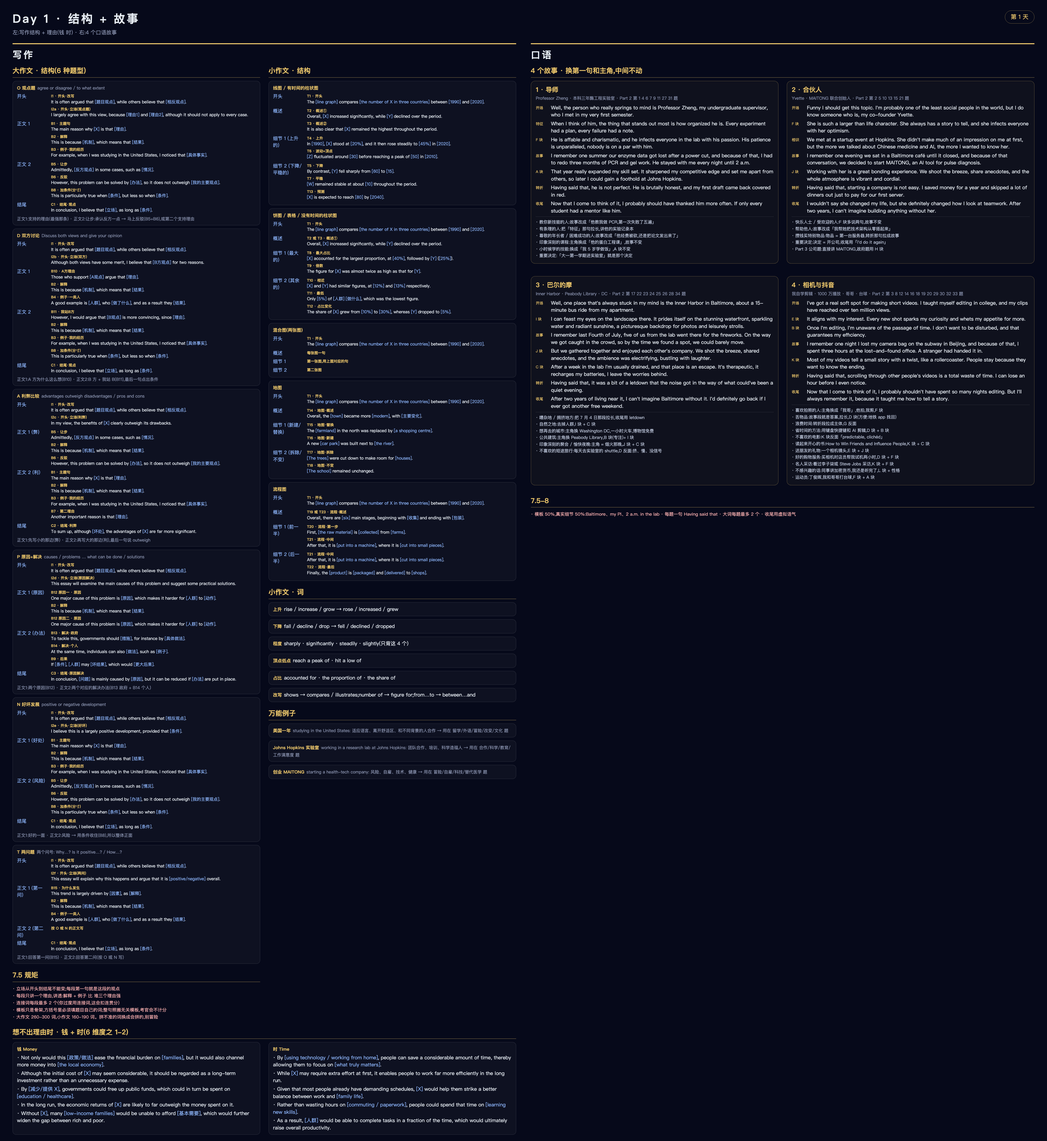
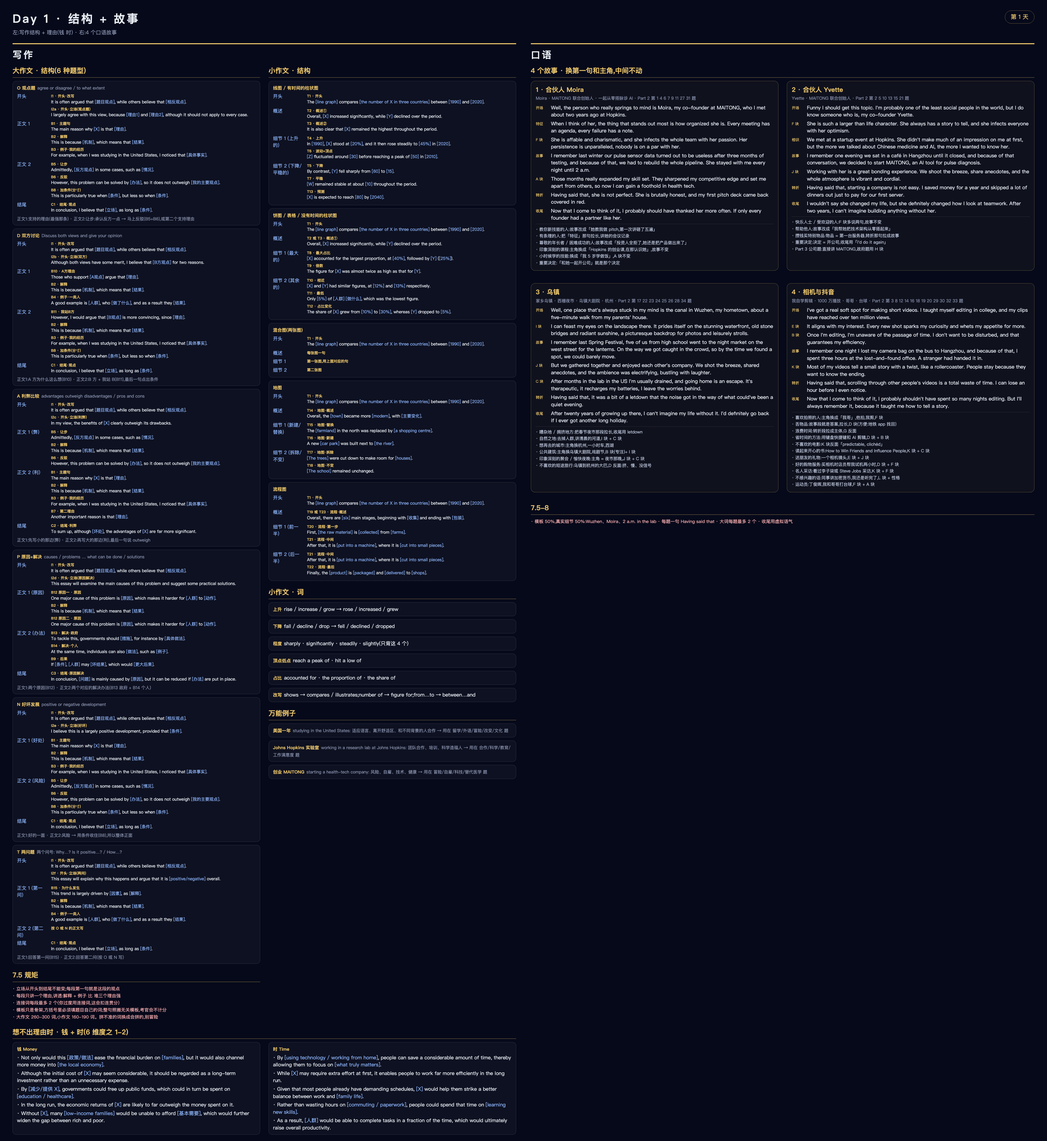
口语故事:导师换成合伙人 Moira,巴尔的摩换成家乡乌镇

diff --git a/posters/1_结构与故事.html b/posters/1_结构与故事.html
@@ -57,14 +57,14 @@ td.b{color:#8fb8ff;white-space:nowrap}
  <h2 class="mt">万能例子</h2><div class="box"><span class="k">美国一年</span><span class="cn">studying in the United States: 适应语言、离开舒适区、和不同背景的人合作 → 用在 留学/外语/冒险/改变/文化 题</span></div><div class="box"><span class="k">Johns Hopkins 实验室</span><span class="cn">working in a research lab at Johns Hopkins: 团队合作、培训、科学造福人 → 用在 合作/科学/教育/工作满意度 题</span></div><div class="box"><span class="k">创业 MAITONG</span><span class="cn">starting a health-tech company: 风险、自雇、技术、健康 → 用在 冒险/自雇/科技/替代医学 题</span></div>
 </div></div><h2 class="mt">想不出理由时 · 钱 + 时(6 维度之 1-2)</h2>
 <div class="cols"><div class="box"><span class="k">钱 Money</span><div style="margin-top:5px">· Not only would this <em>[政策/做法]</em> ease the financial burden on <em>[families]</em>, but it would also channel more money into <em>[the local economy]</em>.</div><div style="margin-top:5px">· Although the initial cost of <em>[X]</em> may seem considerable, it should be regarded as a long-term investment rather than an unnecessary expense.</div><div style="margin-top:5px">· By <em>[减少/提供 X]</em>, governments could free up public funds, which could in turn be spent on <em>[education / healthcare]</em>.</div><div style="margin-top:5px">· In the long run, the economic returns of <em>[X]</em> are likely to far outweigh the money spent on it.</div><div style="margin-top:5px">· Without <em>[X]</em>, many <em>[low-income families]</em> would be unable to afford <em>[基本需要]</em>, which would further widen the gap between rich and poor.</div></div><div class="box"><span class="k">时 Time</span><div style="margin-top:5px">· By <em>[using technology / working from home]</em>, people can save a considerable amount of time, thereby allowing them to focus on <em>[what truly matters]</em>.</div><div style="margin-top:5px">· While <em>[X]</em> may require extra effort at first, it enables people to work far more efficiently in the long run.</div><div style="margin-top:5px">· Given that most people already have demanding schedules, <em>[X]</em> would help them strike a better balance between work and <em>[family life]</em>.</div><div style="margin-top:5px">· Rather than wasting hours on <em>[commuting / paperwork]</em>, people could spend that time on <em>[learning new skills]</em>.</div><div style="margin-top:5px">· As a result, <em>[人群]</em> would be able to complete tasks in a fraction of the time, which would ultimately raise overall productivity.</div></div></div></div><div><h1>口语</h1><h2>4 个故事 · 换第一句和主角,中间不动</h2>
-<div class="cols"><div class="story"><h3>1 · 导师</h3><div class="who">Professor Zheng · 本科三年酶工程实验室 · Part 2 第 1 4 6 7 9 11 27 31 题</div>
- <div class="ln"><i>开场</i><span>Well, the person who really springs to mind is Professor Zheng, my undergraduate supervisor, who I met in my very first semester.</span></div><div class="ln"><i>特征</i><span>When I think of him, the thing that stands out most is how organized he is. Every experiment had a plan, every failure had a note.</span></div><div class="ln"><i>F 块</i><span>He is affable and charismatic, and he infects everyone in the lab with his passion. His patience is unparalleled, nobody is on a par with him.</span></div><div class="ln"><i>故事</i><span>I remember one summer our enzyme data got lost after a power cut, and because of that, I had to redo three months of PCR and gel work. He stayed with me every night until 2 a.m.</span></div><div class="ln"><i>A 块</i><span>That year really expanded my skill set. It sharpened my competitive edge and set me apart from others, so later I could gain a foothold at Johns Hopkins.</span></div><div class="ln"><i>转折</i><span>Having said that, he is not perfect. He is brutally honest, and my first draft came back covered in red.</span></div><div class="ln"><i>收尾</i><span>Now that I come to think of it, I probably should have thanked him more often. If only every student had a mentor like him.</span></div>
- <div class="sw">· 教你新技能的人:故事改成「他教我做 PCR,第一次失败了五遍」<br>· 有条理的人:把「特征」那句拉长,讲他的实验记录本<br>· 尊敬的年长者 / 困难成功的人:故事改成「他经费被砍,还是把论文发出来了」<br>· 印象深刻的课程:主角换成「他的蛋白工程课」,故事不变<br>· 小时候学的技能:换成「我 5 岁学做饭」,A 块不变<br>· 重要决定:「大一第一学期进实验室」就是那个决定</div></div><div class="story"><h3>2 · 合伙人</h3><div class="who">Yvette · MAITONG 联合创始人 · Part 2 第 2 5 10 13 15 21 题</div>
- <div class="ln"><i>开场</i><span>Funny I should get this topic. I'm probably one of the least social people in the world, but I do know someone who is, my co-founder Yvette.</span></div><div class="ln"><i>F 块</i><span>She is such a larger than life character. She always has a story to tell, and she infects everyone with her optimism.</span></div><div class="ln"><i>相识</i><span>We met at a startup event at Hopkins. She didn't make much of an impression on me at first, but the more we talked about Chinese medicine and AI, the more I wanted to know her.</span></div><div class="ln"><i>故事</i><span>I remember one evening we sat in a Baltimore café until it closed, and because of that conversation, we decided to start MAITONG, an AI tool for pulse diagnosis.</span></div><div class="ln"><i>J 块</i><span>Working with her is a great bonding experience. We shoot the breeze, share anecdotes, and the whole atmosphere is vibrant and cordial.</span></div><div class="ln"><i>转折</i><span>Having said that, starting a company is not easy. I saved money for a year and skipped a lot of dinners out just to pay for our first server.</span></div><div class="ln"><i>收尾</i><span>I wouldn't say she changed my life, but she definitely changed how I look at teamwork. After two years, I can't imagine building anything without her.</span></div>
- <div class="sw">· 快乐人士 / 受欢迎的人:F 块多说两句,故事不变<br>· 帮助他人:故事改成「我帮她把技术架构从零搭起来」<br>· 攒钱买特别物品:物品 = 第一台服务器,转折那句拉成故事<br>· 重要决定:决定 = 开公司,收尾用「I'd do it again」<br>· Part 3 公司题:直接讲 MAITONG,政府题用 H 块</div></div><div class="story"><h3>3 · 巴尔的摩</h3><div class="who">Inner Harbor · Peabody Library · DC · Part 2 第 17 22 23 24 25 26 28 34 题</div>
- <div class="ln"><i>开场</i><span>Well, one place that's always stuck in my mind is the Inner Harbor in Baltimore, about a 15-minute bus ride from my apartment.</span></div><div class="ln"><i>I 块</i><span>I can feast my eyes on the landscape there. It prides itself on the stunning waterfront, sparkling water and radiant sunshine, a picturesque backdrop for photos and leisurely strolls.</span></div><div class="ln"><i>故事</i><span>I remember last Fourth of July, five of us from the lab went there for the fireworks. On the way we got caught in the crowd, so by the time we found a spot, we could barely move.</span></div><div class="ln"><i>J 块</i><span>But we gathered together and enjoyed each other's company. We shot the breeze, shared anecdotes, and the ambience was electrifying, bustling with laughter.</span></div><div class="ln"><i>C 块</i><span>After a week in the lab I'm usually drained, and that place is an escape. It's therapeutic, it recharges my batteries, I leave the worries behind.</span></div><div class="ln"><i>转折</i><span>Having said that, it was a bit of a letdown that the noise got in the way of what could've been a quiet evening.</span></div><div class="ln"><i>收尾</i><span>After two years of living near it, I can't imagine Baltimore without it. I'd definitely go back if I ever got another free weekend.</span></div>
- <div class="sw">· 嘈杂地 / 拥挤地方:把 7 月 4 日那段拉长,收尾用 letdown<br>· 自然之地:去掉人群,I 块 + C 块<br>· 想再去的城市:主角换 Washington DC,一小时火车,博物馆免费<br>· 公共建筑:主角换 Peabody Library,B 块(专注)+ I 块<br>· 印象深刻的聚会 / 愉快夜晚:主角 = 烟火那晚,J 块 + C 块<br>· 不喜欢的短途旅行:每天去实验室的 shuttle,D 反面:挤、慢、没信号</div></div><div class="story"><h3>4 · 相机与抖音</h3><div class="who">我自学剪辑 · 1000 万播放 · 哥哥 · 台球 · Part 2 第 3 8 12 14 16 18 19 20 29 30 32 33 题</div>
- <div class="ln"><i>开场</i><span>I've got a real soft spot for making short videos. I taught myself editing in college, and my clips have reached over ten million views.</span></div><div class="ln"><i>E 块</i><span>It aligns with my interest. Every new shot sparks my curiosity and whets my appetite for more.</span></div><div class="ln"><i>B 块</i><span>Once I'm editing, I'm unaware of the passage of time. I don't want to be disturbed, and that guarantees my efficiency.</span></div><div class="ln"><i>故事</i><span>I remember one night I lost my camera bag on the subway in Beijing, and because of that, I spent three hours at the lost-and-found office. A stranger had handed it in.</span></div><div class="ln"><i>K 块</i><span>Most of my videos tell a small story with a twist, like a rollercoaster. People stay because they want to know the ending.</span></div><div class="ln"><i>转折</i><span>Having said that, scrolling through other people's videos is a total waste of time. I can lose an hour before I even notice.</span></div><div class="ln"><i>收尾</i><span>Now that I come to think of it, I probably shouldn't have spent so many nights editing. But I'll always remember it, because it taught me how to tell a story.</span></div>
+<div class="cols"><div class="story"><h3>1 · 合伙人 Moira</h3><div class="who">Moira · MAITONG 联合创始人 · 一起从零搭脉诊 AI · Part 2 第 1 4 6 7 9 11 27 31 题</div>
+ <div class="ln"><i>开场</i><span>Well, the person who really springs to mind is Moira, my co-founder at MAITONG, who I met about two years ago at Hopkins.</span></div><div class="ln"><i>特征</i><span>When I think of her, the thing that stands out most is how organized she is. Every meeting has an agenda, every failure has a note.</span></div><div class="ln"><i>F 块</i><span>She is affable and charismatic, and she infects the whole team with her passion. Her persistence is unparalleled, nobody is on a par with her.</span></div><div class="ln"><i>故事</i><span>I remember last winter our pulse sensor data turned out to be useless after three months of testing, and because of that, we had to rebuild the whole pipeline. She stayed with me every night until 2 a.m.</span></div><div class="ln"><i>A 块</i><span>Those months really expanded my skill set. They sharpened my competitive edge and set me apart from others, so now I can gain a foothold in health tech.</span></div><div class="ln"><i>转折</i><span>Having said that, she is not perfect. She is brutally honest, and my first pitch deck came back covered in red.</span></div><div class="ln"><i>收尾</i><span>Now that I come to think of it, I probably should have thanked her more often. If only every founder had a partner like her.</span></div>
+ <div class="sw">· 教你新技能的人:故事改成「她教我做 pitch,第一次讲砸了五遍」<br>· 有条理的人:把「特征」那句拉长,讲她的会议记录<br>· 尊敬的年长者 / 困难成功的人:故事改成「投资人全拒了,她还是把产品做出来了」<br>· 印象深刻的课程:主角换成「Hopkins 的创业课,在那认识她」,故事不变<br>· 小时候学的技能:换成「我 5 岁学做饭」,A 块不变<br>· 重要决定:「和她一起开公司」就是那个决定</div></div><div class="story"><h3>2 · 合伙人 Yvette</h3><div class="who">Yvette · MAITONG 联合创始人 · Part 2 第 2 5 10 13 15 21 题</div>
+ <div class="ln"><i>开场</i><span>Funny I should get this topic. I'm probably one of the least social people in the world, but I do know someone who is, my co-founder Yvette.</span></div><div class="ln"><i>F 块</i><span>She is such a larger than life character. She always has a story to tell, and she infects everyone with her optimism.</span></div><div class="ln"><i>相识</i><span>We met at a startup event at Hopkins. She didn't make much of an impression on me at first, but the more we talked about Chinese medicine and AI, the more I wanted to know her.</span></div><div class="ln"><i>故事</i><span>I remember one evening we sat in a café in Hangzhou until it closed, and because of that conversation, we decided to start MAITONG, an AI tool for pulse diagnosis.</span></div><div class="ln"><i>J 块</i><span>Working with her is a great bonding experience. We shoot the breeze, share anecdotes, and the whole atmosphere is vibrant and cordial.</span></div><div class="ln"><i>转折</i><span>Having said that, starting a company is not easy. I saved money for a year and skipped a lot of dinners out just to pay for our first server.</span></div><div class="ln"><i>收尾</i><span>I wouldn't say she changed my life, but she definitely changed how I look at teamwork. After two years, I can't imagine building anything without her.</span></div>
+ <div class="sw">· 快乐人士 / 受欢迎的人:F 块多说两句,故事不变<br>· 帮助他人:故事改成「我帮她把技术架构从零搭起来」<br>· 攒钱买特别物品:物品 = 第一台服务器,转折那句拉成故事<br>· 重要决定:决定 = 开公司,收尾用「I'd do it again」<br>· Part 3 公司题:直接讲 MAITONG,政府题用 H 块</div></div><div class="story"><h3>3 · 乌镇</h3><div class="who">家乡乌镇 · 西栅夜市 · 乌镇大剧院 · 杭州 · Part 2 第 17 22 23 24 25 26 28 34 题</div>
+ <div class="ln"><i>开场</i><span>Well, one place that's always stuck in my mind is the canal in Wuzhen, my hometown, about a five-minute walk from my parents' house.</span></div><div class="ln"><i>I 块</i><span>I can feast my eyes on the landscape there. It prides itself on the stunning waterfront, old stone bridges and radiant sunshine, a picturesque backdrop for photos and leisurely strolls.</span></div><div class="ln"><i>故事</i><span>I remember last Spring Festival, five of us from high school went to the night market on the west street for the lanterns. On the way we got caught in the crowd, so by the time we found a spot, we could barely move.</span></div><div class="ln"><i>J 块</i><span>But we gathered together and enjoyed each other's company. We shot the breeze, shared anecdotes, and the ambience was electrifying, bustling with laughter.</span></div><div class="ln"><i>C 块</i><span>After months in the lab in the US I'm usually drained, and going home is an escape. It's therapeutic, it recharges my batteries, I leave the worries behind.</span></div><div class="ln"><i>转折</i><span>Having said that, it was a bit of a letdown that the noise got in the way of what could've been a quiet evening.</span></div><div class="ln"><i>收尾</i><span>After twenty years of growing up there, I can't imagine my life without it. I'd definitely go back if I ever got another long holiday.</span></div>
+ <div class="sw">· 嘈杂地 / 拥挤地方:把春节夜市那段拉长,收尾用 letdown<br>· 自然之地:去掉人群,讲清晨的河道,I 块 + C 块<br>· 想再去的城市:主角换杭州,一小时车,西湖<br>· 公共建筑:主角换乌镇大剧院,戏剧节,B 块(专注)+ I 块<br>· 印象深刻的聚会 / 愉快夜晚:主角 = 夜市那晚,J 块 + C 块<br>· 不喜欢的短途旅行:乌镇到杭州的大巴,D 反面:挤、慢、没信号</div></div><div class="story"><h3>4 · 相机与抖音</h3><div class="who">我自学剪辑 · 1000 万播放 · 哥哥 · 台球 · Part 2 第 3 8 12 14 16 18 19 20 29 30 32 33 题</div>
+ <div class="ln"><i>开场</i><span>I've got a real soft spot for making short videos. I taught myself editing in college, and my clips have reached over ten million views.</span></div><div class="ln"><i>E 块</i><span>It aligns with my interest. Every new shot sparks my curiosity and whets my appetite for more.</span></div><div class="ln"><i>B 块</i><span>Once I'm editing, I'm unaware of the passage of time. I don't want to be disturbed, and that guarantees my efficiency.</span></div><div class="ln"><i>故事</i><span>I remember one night I lost my camera bag on the bus to Hangzhou, and because of that, I spent three hours at the lost-and-found office. A stranger had handed it in.</span></div><div class="ln"><i>K 块</i><span>Most of my videos tell a small story with a twist, like a rollercoaster. People stay because they want to know the ending.</span></div><div class="ln"><i>转折</i><span>Having said that, scrolling through other people's videos is a total waste of time. I can lose an hour before I even notice.</span></div><div class="ln"><i>收尾</i><span>Now that I come to think of it, I probably shouldn't have spent so many nights editing. But I'll always remember it, because it taught me how to tell a story.</span></div>
  <div class="sw">· 喜欢拍照的人:主角换成「我哥」,他拍,我剪,F 块<br>· 丢物品:故事段就是答案,拉长,D 块(方便:地铁 app 找回)<br>· 浪费时间:转折段拉成主体,G 反面<br>· 省时间的方法:用键盘快捷键和 AI 剪辑,D 块 + B 块<br>· 不喜欢的电影:K 块反面「predictable, clichéd」<br>· 读起来开心的书:How to Win Friends and Influence People,K 块 + C 块<br>· 送朋友的礼物:一个相机镜头,E 块 + J 块<br>· 好的购物服务:买相机时店员帮我试机两小时,D 块 + F 块<br>· 名人采访:看过李子柒或 Steve Jobs 采访,K 块 + F 块<br>· 不感兴趣的话:同事讲加密货币,我还是听完了,L 块 + 性格<br>· 运动员:丁俊晖,我和哥哥打台球,F 块 + A 块</div></div></div>
 <h2 class="mt">7.5-8</h2>
-<div class="rule">· 模板 50%,真实细节 50%:Baltimore、my PI、2 a.m. in the lab · 每题一句 Having said that · 大词每题最多 2 个 · 收尾用虚拟语气</div></div></div></div></body></html>
+<div class="rule">· 模板 50%,真实细节 50%:Wuzhen、Moira、2 a.m. in the lab · 每题一句 Having said that · 大词每题最多 2 个 · 收尾用虚拟语气</div></div></div></div></body></html>

diff --git a/posters/3_过题目.html b/posters/3_过题目.html
@@ -40,12 +40,12 @@ td.b{color:#8fb8ff;white-space:nowrap}
  <div class="box">表态 → For one thing / For another → Back in the day, these days → That said, strike a balance。政府题用 H,科技题用 G,人物题用 F + A。</div>
  <h2 class="mt">Part 3 路由</h2>
  <div class="box">government / society → H · technology / future → G · why people like → E C · old vs young → G D · qualities of a good X → F A · 公司 / 商业 → 故事 2 MAITONG</div><h2 class="mt">题 → 故事 + 块</h2>
-<div class="cols"><div><h3 style="margin-top:6px">故事 1 · 导师</h3>
+<div class="cols"><div><h3 style="margin-top:6px">故事 1 · 合伙人 Moira</h3>
  <table><tr><td class="n">P2 1</td><td>做困难事成功的人</td><td class="b">FA</td></tr><tr><td class="n">P2 4</td><td>健康习惯的人</td><td class="b">FB</td></tr><tr><td class="n">P2 6</td><td>教你技能的人</td><td class="b">FA</td></tr><tr><td class="n">P2 7</td><td>有条理的人</td><td class="b">FB</td></tr><tr><td class="n">P2 9</td><td>喜欢历史的人</td><td class="b">FE</td></tr><tr><td class="n">P2 11</td><td>尊敬的年长者</td><td class="b">FA</td></tr><tr><td class="n">P2 27</td><td>小时候学的技能</td><td class="b">AF</td></tr><tr><td class="n">P2 31</td><td>印象深刻的课程</td><td class="b">AE</td></tr>
- <tr><td class="n">P1</td><td>Work or studies<div class="cn">JHU biomedical engineering master's, lab work on immune cells</div></td><td class="b">AB</td></tr><tr><td class="n">P1</td><td>Watch<div class="cn">Apple Watch, timers for experiments</div></td><td class="b">DB</td></tr><tr><td class="n">P1</td><td>Tidiness<div class="cn">Tidy desk = clear mind, declutter</div></td><td class="b">BC</td></tr><tr><td class="n">P1</td><td>Teachers<div class="cn">Professor Zheng, story 1</div></td><td class="b">FA</td></tr><tr><td class="n">P1</td><td>Outer space<div class="cn">Curious, but physics beyond my grasp</div></td><td class="b">EL</td></tr><tr><td class="n">P1</td><td>Morning<div class="cn">Best focus before 10 a.m.</div></td><td class="b">B</td></tr><tr><td class="n">P1</td><td>Science<div class="cn">My whole life, enzyme lab since year one</div></td><td class="b">EA</td></tr><tr><td class="n">P1</td><td>Headphones<div class="cn">AirPods in the lab, no distraction</div></td><td class="b">BC</td></tr><tr><td class="n">P1</td><td>Fruit &amp; vegetables<div class="cn">Cook myself since age five</div></td><td class="b">D</td></tr><tr><td class="n">P1</td><td>Tiredness<div class="cn">After lab, 2 a.m. nights</div></td><td class="b">CB</td></tr><tr><td class="n">P1</td><td>Name<div class="cn">Jiaqiang, 'strong', my grandfather chose it</div></td><td class="b">F</td></tr><tr><td class="n">P1</td><td>Opportunities<div class="cn">Coming to Hopkins</div></td><td class="b">A</td></tr><tr><td class="n">P1</td><td>Secondary school<div class="cn">Chemistry teacher got me into science</div></td><td class="b">AF</td></tr><tr><td class="n">P1</td><td>Paper<div class="cn">Lab notebook only, everything else digital</div></td><td class="b">GD</td></tr></table></div><div><h3 style="margin-top:6px">故事 2 · 合伙人</h3>
+ <tr><td class="n">P1</td><td>Work or studies<div class="cn">JHU biomedical engineering, building MAITONG with Moira</div></td><td class="b">AB</td></tr><tr><td class="n">P1</td><td>Watch<div class="cn">Apple Watch, timers for experiments</div></td><td class="b">DB</td></tr><tr><td class="n">P1</td><td>Tidiness<div class="cn">Tidy desk = clear mind, declutter</div></td><td class="b">BC</td></tr><tr><td class="n">P1</td><td>Teachers<div class="cn">My chemistry teacher in high school, F + A</div></td><td class="b">FA</td></tr><tr><td class="n">P1</td><td>Outer space<div class="cn">Curious, but physics beyond my grasp</div></td><td class="b">EL</td></tr><tr><td class="n">P1</td><td>Morning<div class="cn">Best focus before 10 a.m.</div></td><td class="b">B</td></tr><tr><td class="n">P1</td><td>Science<div class="cn">My whole life, enzyme lab since year one</div></td><td class="b">EA</td></tr><tr><td class="n">P1</td><td>Headphones<div class="cn">AirPods in the lab, no distraction</div></td><td class="b">BC</td></tr><tr><td class="n">P1</td><td>Fruit &amp; vegetables<div class="cn">Cook myself since age five</div></td><td class="b">D</td></tr><tr><td class="n">P1</td><td>Tiredness<div class="cn">After lab, 2 a.m. nights</div></td><td class="b">CB</td></tr><tr><td class="n">P1</td><td>Name<div class="cn">Jiaqiang, 'strong', my grandfather chose it</div></td><td class="b">F</td></tr><tr><td class="n">P1</td><td>Opportunities<div class="cn">Coming to Hopkins</div></td><td class="b">A</td></tr><tr><td class="n">P1</td><td>Secondary school<div class="cn">Chemistry teacher got me into science</div></td><td class="b">AF</td></tr><tr><td class="n">P1</td><td>Paper<div class="cn">Lab notebook only, everything else digital</div></td><td class="b">GD</td></tr></table></div><div><h3 style="margin-top:6px">故事 2 · 合伙人 Yvette</h3>
  <table><tr><td class="n">P2 2</td><td>受欢迎的人</td><td class="b">FJ</td></tr><tr><td class="n">P2 5</td><td>见一次想了解的人</td><td class="b">FE</td></tr><tr><td class="n">P2 10</td><td>快乐人士</td><td class="b">FJ</td></tr><tr><td class="n">P2 13</td><td>帮助他人</td><td class="b">JF</td></tr><tr><td class="n">P2 15</td><td>攒钱买特别物品</td><td class="b">BE</td></tr><tr><td class="n">P2 21</td><td>开心的重要决定</td><td class="b">A</td></tr>
- <tr><td class="n">P1</td><td>Clothing<div class="cn">Simple, parents in the clothing business</div></td><td class="b">D</td></tr><tr><td class="n">P1</td><td>Jokes<div class="cn">My co-founder tells the best ones</div></td><td class="b">CJ</td></tr><tr><td class="n">P1</td><td>Politeness<div class="cn">Learned at my parents' business meetings</div></td><td class="b">F</td></tr><tr><td class="n">P1</td><td>Advertisement<div class="cn">Make them myself for MAITONG</div></td><td class="b">G</td></tr><tr><td class="n">P1</td><td>Friends<div class="cn">Lab mates, co-founder</div></td><td class="b">JF</td></tr></table></div><div><h3 style="margin-top:6px">故事 3 · 巴尔的摩</h3>
+ <tr><td class="n">P1</td><td>Clothing<div class="cn">Simple, parents in the clothing business</div></td><td class="b">D</td></tr><tr><td class="n">P1</td><td>Jokes<div class="cn">Yvette tells the best ones</div></td><td class="b">CJ</td></tr><tr><td class="n">P1</td><td>Politeness<div class="cn">Learned at my parents' business meetings</div></td><td class="b">F</td></tr><tr><td class="n">P1</td><td>Advertisement<div class="cn">Make them myself for MAITONG</div></td><td class="b">G</td></tr><tr><td class="n">P1</td><td>Friends<div class="cn">My two co-founders</div></td><td class="b">JF</td></tr></table></div><div><h3 style="margin-top:6px">故事 3 · 乌镇</h3>
  <table><tr><td class="n">P2 17</td><td>印象深刻的聚会</td><td class="b">JC</td></tr><tr><td class="n">P2 22</td><td>不喜欢的短途旅行</td><td class="b">D反</td></tr><tr><td class="n">P2 23</td><td>嘈杂地</td><td class="b">J</td></tr><tr><td class="n">P2 24</td><td>想再去的城市</td><td class="b">IC</td></tr><tr><td class="n">P2 25</td><td>城市自然之地</td><td class="b">IC</td></tr><tr><td class="n">P2 26</td><td>拥挤地方</td><td class="b">J</td></tr><tr><td class="n">P2 28</td><td>公共建筑</td><td class="b">BI</td></tr><tr><td class="n">P2 34</td><td>愉快夜晚</td><td class="b">JC</td></tr>
- <tr><td class="n">P1</td><td>Home<div class="cn">Apartment near campus, 15 minutes to the Inner Harbor</div></td><td class="b">CD</td></tr><tr><td class="n">P1</td><td>City<div class="cn">Baltimore, small, by the water, free museums in DC one hour away</div></td><td class="b">ID</td></tr><tr><td class="n">P1</td><td>Cars<div class="cn">Can drive, no car in Baltimore, take the shuttle</div></td><td class="b">DG</td></tr><tr><td class="n">P1</td><td>Parks<div class="cn">Patterson Park on weekends to recharge</div></td><td class="b">IC</td></tr><tr><td class="n">P1</td><td>Rubbish &amp; recycling<div class="cn">Baltimore bins, government should educate</div></td><td class="b">HG</td></tr><tr><td class="n">P1</td><td>Travelling<div class="cn">DC, New York by train</div></td><td class="b">IC</td></tr><tr><td class="n">P1</td><td>Shoes<div class="cn">Sneakers, I walk to the lab</div></td><td class="b">D</td></tr><tr><td class="n">P1</td><td>Street market<div class="cn">Night markets back home, vibrant</div></td><td class="b">JD</td></tr></table></div><div><h3 style="margin-top:6px">故事 4 · 相机与抖音</h3>
+ <tr><td class="n">P1</td><td>Home<div class="cn">Old house by the canal in Wuzhen, five minutes to the water</div></td><td class="b">CD</td></tr><tr><td class="n">P1</td><td>City<div class="cn">Wuzhen, a water town, Hangzhou one hour away</div></td><td class="b">ID</td></tr><tr><td class="n">P1</td><td>Cars<div class="cn">Can drive, but in Wuzhen you walk or take a boat</div></td><td class="b">DG</td></tr><tr><td class="n">P1</td><td>Parks<div class="cn">The riverside path in Wuzhen at dawn to recharge</div></td><td class="b">IC</td></tr><tr><td class="n">P1</td><td>Rubbish &amp; recycling<div class="cn">Wuzhen sorts rubbish for tourists, government should educate</div></td><td class="b">HG</td></tr><tr><td class="n">P1</td><td>Travelling<div class="cn">Hangzhou, Shanghai by train</div></td><td class="b">IC</td></tr><tr><td class="n">P1</td><td>Shoes<div class="cn">Sneakers, the stone streets in Wuzhen</div></td><td class="b">D</td></tr><tr><td class="n">P1</td><td>Street market<div class="cn">The night market on the west street in Wuzhen, vibrant</div></td><td class="b">JD</td></tr></table></div><div><h3 style="margin-top:6px">故事 4 · 相机与抖音</h3>
  <table><tr><td class="n">P2 3</td><td>喜欢拍照的人</td><td class="b">FI</td></tr><tr><td class="n">P2 8</td><td>钦佩的运动员</td><td class="b">FA</td></tr><tr><td class="n">P2 12</td><td>擅长手工的人</td><td class="b">FL</td></tr><tr><td class="n">P2 14</td><td>听不感兴趣的话</td><td class="b">L</td></tr><tr><td class="n">P2 16</td><td>好的购物服务</td><td class="b">DF</td></tr><tr><td class="n">P2 18</td><td>公共场所丢物品</td><td class="b">D</td></tr><tr><td class="n">P2 19</td><td>名人采访</td><td class="b">KF</td></tr><tr><td class="n">P2 20</td><td>浪费时间的活动</td><td class="b">G反</td></tr><tr><td class="n">P2 29</td><td>不喜欢的电影</td><td class="b">K反</td></tr><tr><td class="n">P2 30</td><td>省时间的方法</td><td class="b">DB</td></tr><tr><td class="n">P2 32</td><td>送朋友的礼物</td><td class="b">EJ</td></tr><tr><td class="n">P2 33</td><td>读起来开心的书</td><td class="b">KC</td></tr>
- <tr><td class="n">P1</td><td>Websites<div class="cn">GitHub and YouTube, learn editing</div></td><td class="b">GE</td></tr><tr><td class="n">P1</td><td>Mirrors<div class="cn">Only in the morning, not a selfie person</div></td><td class="b">L</td></tr><tr><td class="n">P1</td><td>Shopping<div class="cn">Online, camera gear in store</div></td><td class="b">DC</td></tr><tr><td class="n">P1</td><td>Music<div class="cn">Guitar, grade four, play to unwind</div></td><td class="b">CE</td></tr><tr><td class="n">P1</td><td>Social media<div class="cn">Make videos, 10 million views, but addictive</div></td><td class="b">G</td></tr><tr><td class="n">P1</td><td>Singing<div class="cn">Only with guitar, in the shower</div></td><td class="b">CL</td></tr><tr><td class="n">P1</td><td>Feeling bored<div class="cn">Rare, I edit videos</div></td><td class="b">C</td></tr><tr><td class="n">P1</td><td>Computers<div class="cn">MacBook, editing and coding</div></td><td class="b">GB</td></tr><tr><td class="n">P1</td><td>Collecting<div class="cn">Camera lenses</div></td><td class="b">E</td></tr><tr><td class="n">P1</td><td>Lost and found<div class="cn">Camera bag on Beijing subway, story 4</div></td><td class="b">D</td></tr></table></div></div></div></div></div></body></html>
+ <tr><td class="n">P1</td><td>Websites<div class="cn">GitHub and YouTube, learn editing</div></td><td class="b">GE</td></tr><tr><td class="n">P1</td><td>Mirrors<div class="cn">Only in the morning, not a selfie person</div></td><td class="b">L</td></tr><tr><td class="n">P1</td><td>Shopping<div class="cn">Online, camera gear in store</div></td><td class="b">DC</td></tr><tr><td class="n">P1</td><td>Music<div class="cn">Guitar, grade four, play to unwind</div></td><td class="b">CE</td></tr><tr><td class="n">P1</td><td>Social media<div class="cn">Make videos, 10 million views, but addictive</div></td><td class="b">G</td></tr><tr><td class="n">P1</td><td>Singing<div class="cn">Only with guitar, in the shower</div></td><td class="b">CL</td></tr><tr><td class="n">P1</td><td>Feeling bored<div class="cn">Rare, I edit videos</div></td><td class="b">C</td></tr><tr><td class="n">P1</td><td>Computers<div class="cn">MacBook, editing and coding</div></td><td class="b">GB</td></tr><tr><td class="n">P1</td><td>Collecting<div class="cn">Camera lenses</div></td><td class="b">E</td></tr><tr><td class="n">P1</td><td>Lost and found<div class="cn">Camera bag on the bus to Hangzhou, story 4</div></td><td class="b">D</td></tr></table></div></div></div></div></div></body></html>

diff --git a/speak-data.js b/speak-data.js
@@ -1,34 +1,34 @@
 window.S = {
 stories: [
 {
- id: 1, name: "导师", who: "Professor Zheng · 本科三年酶工程实验室",
+id: 1, name: "合伙人 Moira", who: "Moira · MAITONG 联合创始人 · 一起从零搭脉诊 AI",
  cover: "人物题(教技能 / 有条理 / 年长者 / 困难成功 / 历史) · 课程 · 小时候的技能 · 重要决定",
  lines: [
-  ["开场", "Well, the person who really springs to mind is Professor Zheng, my undergraduate supervisor, who I met in my very first semester."],
-  ["特征", "When I think of him, the thing that stands out most is how organized he is. Every experiment had a plan, every failure had a note."],
-  ["F 块", "He is affable and charismatic, and he infects everyone in the lab with his passion. His patience is unparalleled, nobody is on a par with him."],
-  ["故事", "I remember one summer our enzyme data got lost after a power cut, and because of that, I had to redo three months of PCR and gel work. He stayed with me every night until 2 a.m."],
-  ["A 块", "That year really expanded my skill set. It sharpened my competitive edge and set me apart from others, so later I could gain a foothold at Johns Hopkins."],
-  ["转折", "Having said that, he is not perfect. He is brutally honest, and my first draft came back covered in red."],
-  ["收尾", "Now that I come to think of it, I probably should have thanked him more often. If only every student had a mentor like him."]
+  ["开场", "Well, the person who really springs to mind is Moira, my co-founder at MAITONG, who I met about two years ago at Hopkins."],
+  ["特征", "When I think of her, the thing that stands out most is how organized she is. Every meeting has an agenda, every failure has a note."],
+  ["F 块", "She is affable and charismatic, and she infects the whole team with her passion. Her persistence is unparalleled, nobody is on a par with her."],
+  ["故事", "I remember last winter our pulse sensor data turned out to be useless after three months of testing, and because of that, we had to rebuild the whole pipeline. She stayed with me every night until 2 a.m."],
+  ["A 块", "Those months really expanded my skill set. They sharpened my competitive edge and set me apart from others, so now I can gain a foothold in health tech."],
+  ["转折", "Having said that, she is not perfect. She is brutally honest, and my first pitch deck came back covered in red."],
+  ["收尾", "Now that I come to think of it, I probably should have thanked her more often. If only every founder had a partner like her."]
  ],
  swap: [
-  "教你新技能的人:故事改成「他教我做 PCR,第一次失败了五遍」",
-  "有条理的人:把「特征」那句拉长,讲他的实验记录本",
-  "尊敬的年长者 / 困难成功的人:故事改成「他经费被砍,还是把论文发出来了」",
-  "印象深刻的课程:主角换成「他的蛋白工程课」,故事不变",
+  "教你新技能的人:故事改成「她教我做 pitch,第一次讲砸了五遍」",
+  "有条理的人:把「特征」那句拉长,讲她的会议记录",
+  "尊敬的年长者 / 困难成功的人:故事改成「投资人全拒了,她还是把产品做出来了」",
+  "印象深刻的课程:主角换成「Hopkins 的创业课,在那认识她」,故事不变",
   "小时候学的技能:换成「我 5 岁学做饭」,A 块不变",
-  "重要决定:「大一第一学期进实验室」就是那个决定"
+  "重要决定:「和她一起开公司」就是那个决定"
  ]
 },
 {
- id: 2, name: "合伙人", who: "Yvette · MAITONG 联合创始人",
+ id: 2, name: "合伙人 Yvette", who: "Yvette · MAITONG 联合创始人",
  cover: "受欢迎的人 · 快乐人士 · 见一次想了解 · 帮助他人 · 攒钱 · 重要决定 · Part 3 公司/商业题",
  lines: [
   ["开场", "Funny I should get this topic. I'm probably one of the least social people in the world, but I do know someone who is, my co-founder Yvette."],
   ["F 块", "She is such a larger than life character. She always has a story to tell, and she infects everyone with her optimism."],
   ["相识", "We met at a startup event at Hopkins. She didn't make much of an impression on me at first, but the more we talked about Chinese medicine and AI, the more I wanted to know her."],
-  ["故事", "I remember one evening we sat in a Baltimore café until it closed, and because of that conversation, we decided to start MAITONG, an AI tool for pulse diagnosis."],
+  ["故事", "I remember one evening we sat in a café in Hangzhou until it closed, and because of that conversation, we decided to start MAITONG, an AI tool for pulse diagnosis."],
   ["J 块", "Working with her is a great bonding experience. We shoot the breeze, share anecdotes, and the whole atmosphere is vibrant and cordial."],
   ["转折", "Having said that, starting a company is not easy. I saved money for a year and skipped a lot of dinners out just to pay for our first server."],
   ["收尾", "I wouldn't say she changed my life, but she definitely changed how I look at teamwork. After two years, I can't imagine building anything without her."]
@@ -42,24 +42,24 @@ stories: [
  ]
 },
 {
- id: 3, name: "巴尔的摩", who: "Inner Harbor · Peabody Library · DC",
+id: 3, name: "乌镇", who: "家乡乌镇 · 西栅夜市 · 乌镇大剧院 · 杭州",
  cover: "地点题全部(嘈杂 / 拥挤 / 自然之地 / 想再去的城市) · 公共建筑 · 聚会 · 愉快夜晚 · 不喜欢的短途旅行",
  lines: [
-  ["开场", "Well, one place that's always stuck in my mind is the Inner Harbor in Baltimore, about a 15-minute bus ride from my apartment."],
-  ["I 块", "I can feast my eyes on the landscape there. It prides itself on the stunning waterfront, sparkling water and radiant sunshine, a picturesque backdrop for photos and leisurely strolls."],
-  ["故事", "I remember last Fourth of July, five of us from the lab went there for the fireworks. On the way we got caught in the crowd, so by the time we found a spot, we could barely move."],
+  ["开场", "Well, one place that's always stuck in my mind is the canal in Wuzhen, my hometown, about a five-minute walk from my parents' house."],
+  ["I 块", "I can feast my eyes on the landscape there. It prides itself on the stunning waterfront, old stone bridges and radiant sunshine, a picturesque backdrop for photos and leisurely strolls."],
+  ["故事", "I remember last Spring Festival, five of us from high school went to the night market on the west street for the lanterns. On the way we got caught in the crowd, so by the time we found a spot, we could barely move."],
   ["J 块", "But we gathered together and enjoyed each other's company. We shot the breeze, shared anecdotes, and the ambience was electrifying, bustling with laughter."],
-  ["C 块", "After a week in the lab I'm usually drained, and that place is an escape. It's therapeutic, it recharges my batteries, I leave the worries behind."],
+  ["C 块", "After months in the lab in the US I'm usually drained, and going home is an escape. It's therapeutic, it recharges my batteries, I leave the worries behind."],
   ["转折", "Having said that, it was a bit of a letdown that the noise got in the way of what could've been a quiet evening."],
-  ["收尾", "After two years of living near it, I can't imagine Baltimore without it. I'd definitely go back if I ever got another free weekend."]
+  ["收尾", "After twenty years of growing up there, I can't imagine my life without it. I'd definitely go back if I ever got another long holiday."]
  ],
  swap: [
-  "嘈杂地 / 拥挤地方:把 7 月 4 日那段拉长,收尾用 letdown",
-  "自然之地:去掉人群,I 块 + C 块",
-  "想再去的城市:主角换 Washington DC,一小时火车,博物馆免费",
-  "公共建筑:主角换 Peabody Library,B 块(专注)+ I 块",
-  "印象深刻的聚会 / 愉快夜晚:主角 = 烟火那晚,J 块 + C 块",
-  "不喜欢的短途旅行:每天去实验室的 shuttle,D 反面:挤、慢、没信号"
+  "嘈杂地 / 拥挤地方:把春节夜市那段拉长,收尾用 letdown",
+  "自然之地:去掉人群,讲清晨的河道,I 块 + C 块",
+  "想再去的城市:主角换杭州,一小时车,西湖",
+  "公共建筑:主角换乌镇大剧院,戏剧节,B 块(专注)+ I 块",
+  "印象深刻的聚会 / 愉快夜晚:主角 = 夜市那晚,J 块 + C 块",
+  "不喜欢的短途旅行:乌镇到杭州的大巴,D 反面:挤、慢、没信号"
  ]
 },
 {
@@ -69,7 +69,7 @@ stories: [
   ["开场", "I've got a real soft spot for making short videos. I taught myself editing in college, and my clips have reached over ten million views."],
   ["E 块", "It aligns with my interest. Every new shot sparks my curiosity and whets my appetite for more."],
   ["B 块", "Once I'm editing, I'm unaware of the passage of time. I don't want to be disturbed, and that guarantees my efficiency."],
-  ["故事", "I remember one night I lost my camera bag on the subway in Beijing, and because of that, I spent three hours at the lost-and-found office. A stranger had handed it in."],
+  ["故事", "I remember one night I lost my camera bag on the bus to Hangzhou, and because of that, I spent three hours at the lost-and-found office. A stranger had handed it in."],
   ["K 块", "Most of my videos tell a small story with a twist, like a rollercoaster. People stay because they want to know the ending."],
   ["转折", "Having said that, scrolling through other people's videos is a total waste of time. I can lose an hour before I even notice."],
   ["收尾", "Now that I come to think of it, I probably shouldn't have spent so many nights editing. But I'll always remember it, because it taught me how to tell a story."]
@@ -130,40 +130,40 @@ p2: [
  [31,"印象深刻的课程",1,"AE"],[32,"送朋友的礼物",4,"EJ"],[33,"读起来开心的书",4,"KC"],[34,"愉快夜晚",3,"JC"]
 ],
 p1: [
- ["Work or studies",1,"AB","JHU biomedical engineering master's, lab work on immune cells"],
- ["Home",3,"CD","Apartment near campus, 15 minutes to the Inner Harbor"],
- ["City",3,"ID","Baltimore, small, by the water, free museums in DC one hour away"],
+ ["Work or studies",1,"AB","JHU biomedical engineering, building MAITONG with Moira"],
+ ["Home",3,"CD","Old house by the canal in Wuzhen, five minutes to the water"],
+ ["City",3,"ID","Wuzhen, a water town, Hangzhou one hour away"],
  ["Watch",1,"DB","Apple Watch, timers for experiments"],
- ["Cars",3,"DG","Can drive, no car in Baltimore, take the shuttle"],
+ ["Cars",3,"DG","Can drive, but in Wuzhen you walk or take a boat"],
  ["Websites",4,"GE","GitHub and YouTube, learn editing"],
  ["Mirrors",4,"L","Only in the morning, not a selfie person"],
- ["Parks",3,"IC","Patterson Park on weekends to recharge"],
+ ["Parks",3,"IC","The riverside path in Wuzhen at dawn to recharge"],
  ["Shopping",4,"DC","Online, camera gear in store"],
  ["Tidiness",1,"BC","Tidy desk = clear mind, declutter"],
  ["Music",4,"CE","Guitar, grade four, play to unwind"],
- ["Teachers",1,"FA","Professor Zheng, story 1"],
+ ["Teachers",1,"FA","My chemistry teacher in high school, F + A"],
  ["Social media",4,"G","Make videos, 10 million views, but addictive"],
  ["Clothing",2,"D","Simple, parents in the clothing business"],
  ["Outer space",1,"EL","Curious, but physics beyond my grasp"],
  ["Morning",1,"B","Best focus before 10 a.m."],
  ["Singing",4,"CL","Only with guitar, in the shower"],
  ["Science",1,"EA","My whole life, enzyme lab since year one"],
- ["Jokes",2,"CJ","My co-founder tells the best ones"],
+ ["Jokes",2,"CJ","Yvette tells the best ones"],
  ["Headphones",1,"BC","AirPods in the lab, no distraction"],
  ["Feeling bored",4,"C","Rare, I edit videos"],
  ["Fruit & vegetables",1,"D","Cook myself since age five"],
  ["Politeness",2,"F","Learned at my parents' business meetings"],
  ["Tiredness",1,"CB","After lab, 2 a.m. nights"],
- ["Rubbish & recycling",3,"HG","Baltimore bins, government should educate"],
- ["Travelling",3,"IC","DC, New York by train"],
+ ["Rubbish & recycling",3,"HG","Wuzhen sorts rubbish for tourists, government should educate"],
+ ["Travelling",3,"IC","Hangzhou, Shanghai by train"],
  ["Advertisement",2,"G","Make them myself for MAITONG"],
- ["Friends",2,"JF","Lab mates, co-founder"],
- ["Shoes",3,"D","Sneakers, I walk to the lab"],
+ ["Friends",2,"JF","My two co-founders"],
+ ["Shoes",3,"D","Sneakers, the stone streets in Wuzhen"],
  ["Name",1,"F","Jiaqiang, 'strong', my grandfather chose it"],
  ["Computers",4,"GB","MacBook, editing and coding"],
  ["Collecting",4,"E","Camera lenses"],
- ["Lost and found",4,"D","Camera bag on Beijing subway, story 4"],
- ["Street market",3,"JD","Night markets back home, vibrant"],
+ ["Lost and found",4,"D","Camera bag on the bus to Hangzhou, story 4"],
+ ["Street market",3,"JD","The night market on the west street in Wuzhen, vibrant"],
  ["Opportunities",1,"A","Coming to Hopkins"],
  ["Secondary school",1,"AF","Chemistry teacher got me into science"],
  ["Paper",1,"GD","Lab notebook only, everything else digital"]

diff --git a/posters/build.js b/posters/build.js
@@ -46,7 +46,7 @@ const page = (title, sub, day, left, right) => `<!doctype html><html lang="zh"><
 <div class="half"><div><h1>写作</h1>${left}</div><div><h1>口语</h1>${right}</div></div></div></body></html>`;
 
 const sentBox = (arr, ids) => ids.map(id => { const s = arr.find(x => x[0] === id); return s ? `<div class="box"><span class="k">${s[0]} ${esc(s[1])}</span>${slot(s[2])}<div class="cn">${esc(s[3])}</div></div>` : ''; }).join('');
-const names = { 1: '导师', 2: '合伙人', 3: '巴尔的摩', 4: '相机与抖音' };
+const names = { 1: '合伙人 Moira', 2: '合伙人 Yvette', 3: '乌镇', 4: '相机与抖音' };
 
 
 const ALL = [...W.T2_SENT, ...W.T1_SENT];
@@ -89,7 +89,7 @@ const S_story = `<h2>4 个故事 · 换第一句和主角,中间不动</h2>
  ${s.lines.map(l => `<div class="ln"><i>${esc(l[0])}</i><span>${esc(l[1])}</span></div>`).join('')}
  <div class="sw">${s.swap.map(x => '· ' + esc(x)).join('<br>')}</div></div>`).join('')}</div>
 <h2 class="mt">7.5-8</h2>
-<div class="rule">· 模板 50%,真实细节 50%:Baltimore、my PI、2 a.m. in the lab · 每题一句 Having said that · 大词每题最多 2 个 · 收尾用虚拟语气</div>`;
+<div class="rule">· 模板 50%,真实细节 50%:Wuzhen、Moira、2 a.m. in the lab · 每题一句 Having said that · 大词每题最多 2 个 · 收尾用虚拟语气</div>`;
 
 const S_block = `<div class="cols"><div>
  <h2>12 块 · 每块 3 句顺着背</h2>

diff --git a/sw.js b/sw.js
@@ -1,4 +1,4 @@
-const V = 'mmb-v27';
+const V = 'mmb-v28';
 const FILES = ['./', './index.html', './apple-touch-icon.png', './icon-192.png', './icon-512.png', './models.html', './polya.html', './drill.html', './english.html', './spell.html', './spell-data.js', './spell-v1map.js', './writing.html', './writing-data.js', './speak.html', './speak-data.js', './su/math.html', './su/code.html', './su/engine.js', './su/base.css', './su/map.css', './su/star.js',
                './immune/map.html', './immune/api.js', './immune/base.css', './immune/star.js', './immune/nodes.json', './immune/fig.html', './vendor/pdf.min.mjs', './vendor/pdf.worker.min.mjs',
                './icon.svg', './manifest.webmanifest'];

diff --git a/speak.html b/speak.html
@@ -52,7 +52,7 @@ function st(){
   <div class="tg">点开 · 怎么改</div></div>`).join('');
 }
 function map(){
- const names={1:'导师',2:'合伙人',3:'巴尔的摩',4:'相机与抖音'};
+ const names={1:'合伙人 Moira',2:'合伙人 Yvette',3:'乌镇',4:'相机与抖音'};
  let out='<div class="note">按故事分组。考到哪题,找到它在哪个故事下面,换第一句就讲。</div>';
  for(const k of [1,2,3,4]){
   out+=`<h2>故事 ${k} · ${names[k]}</h2>`;
